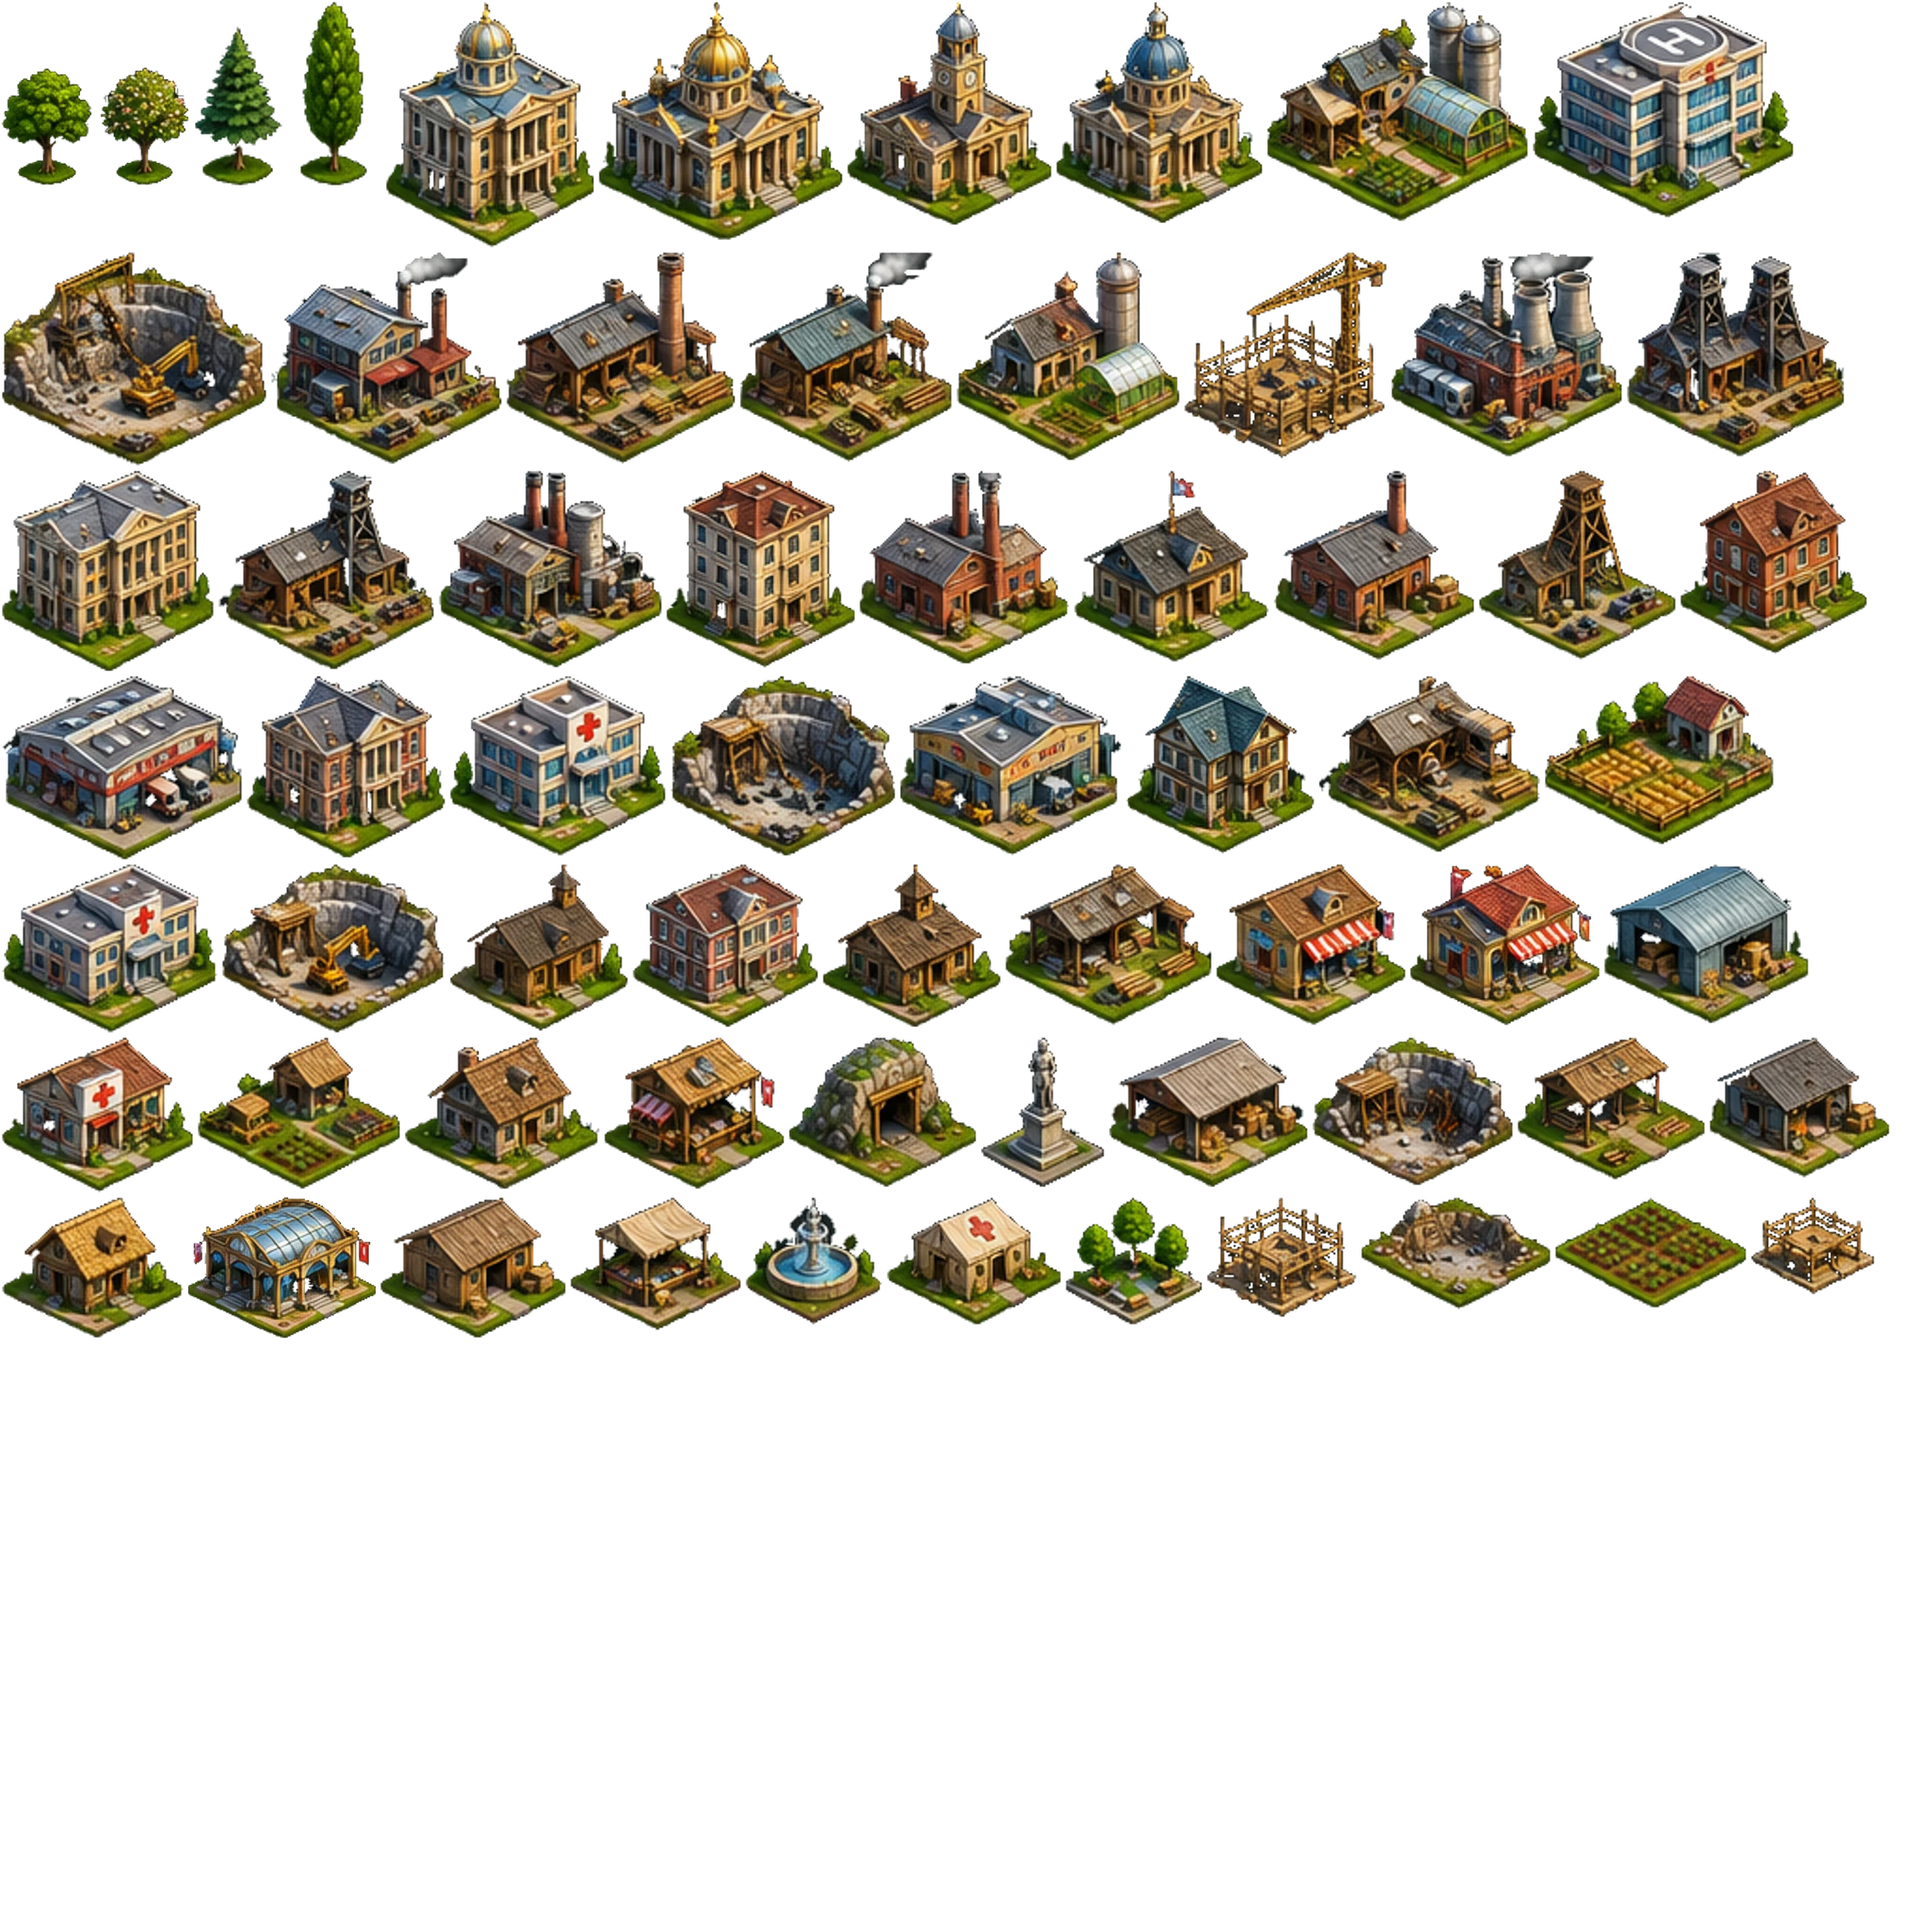
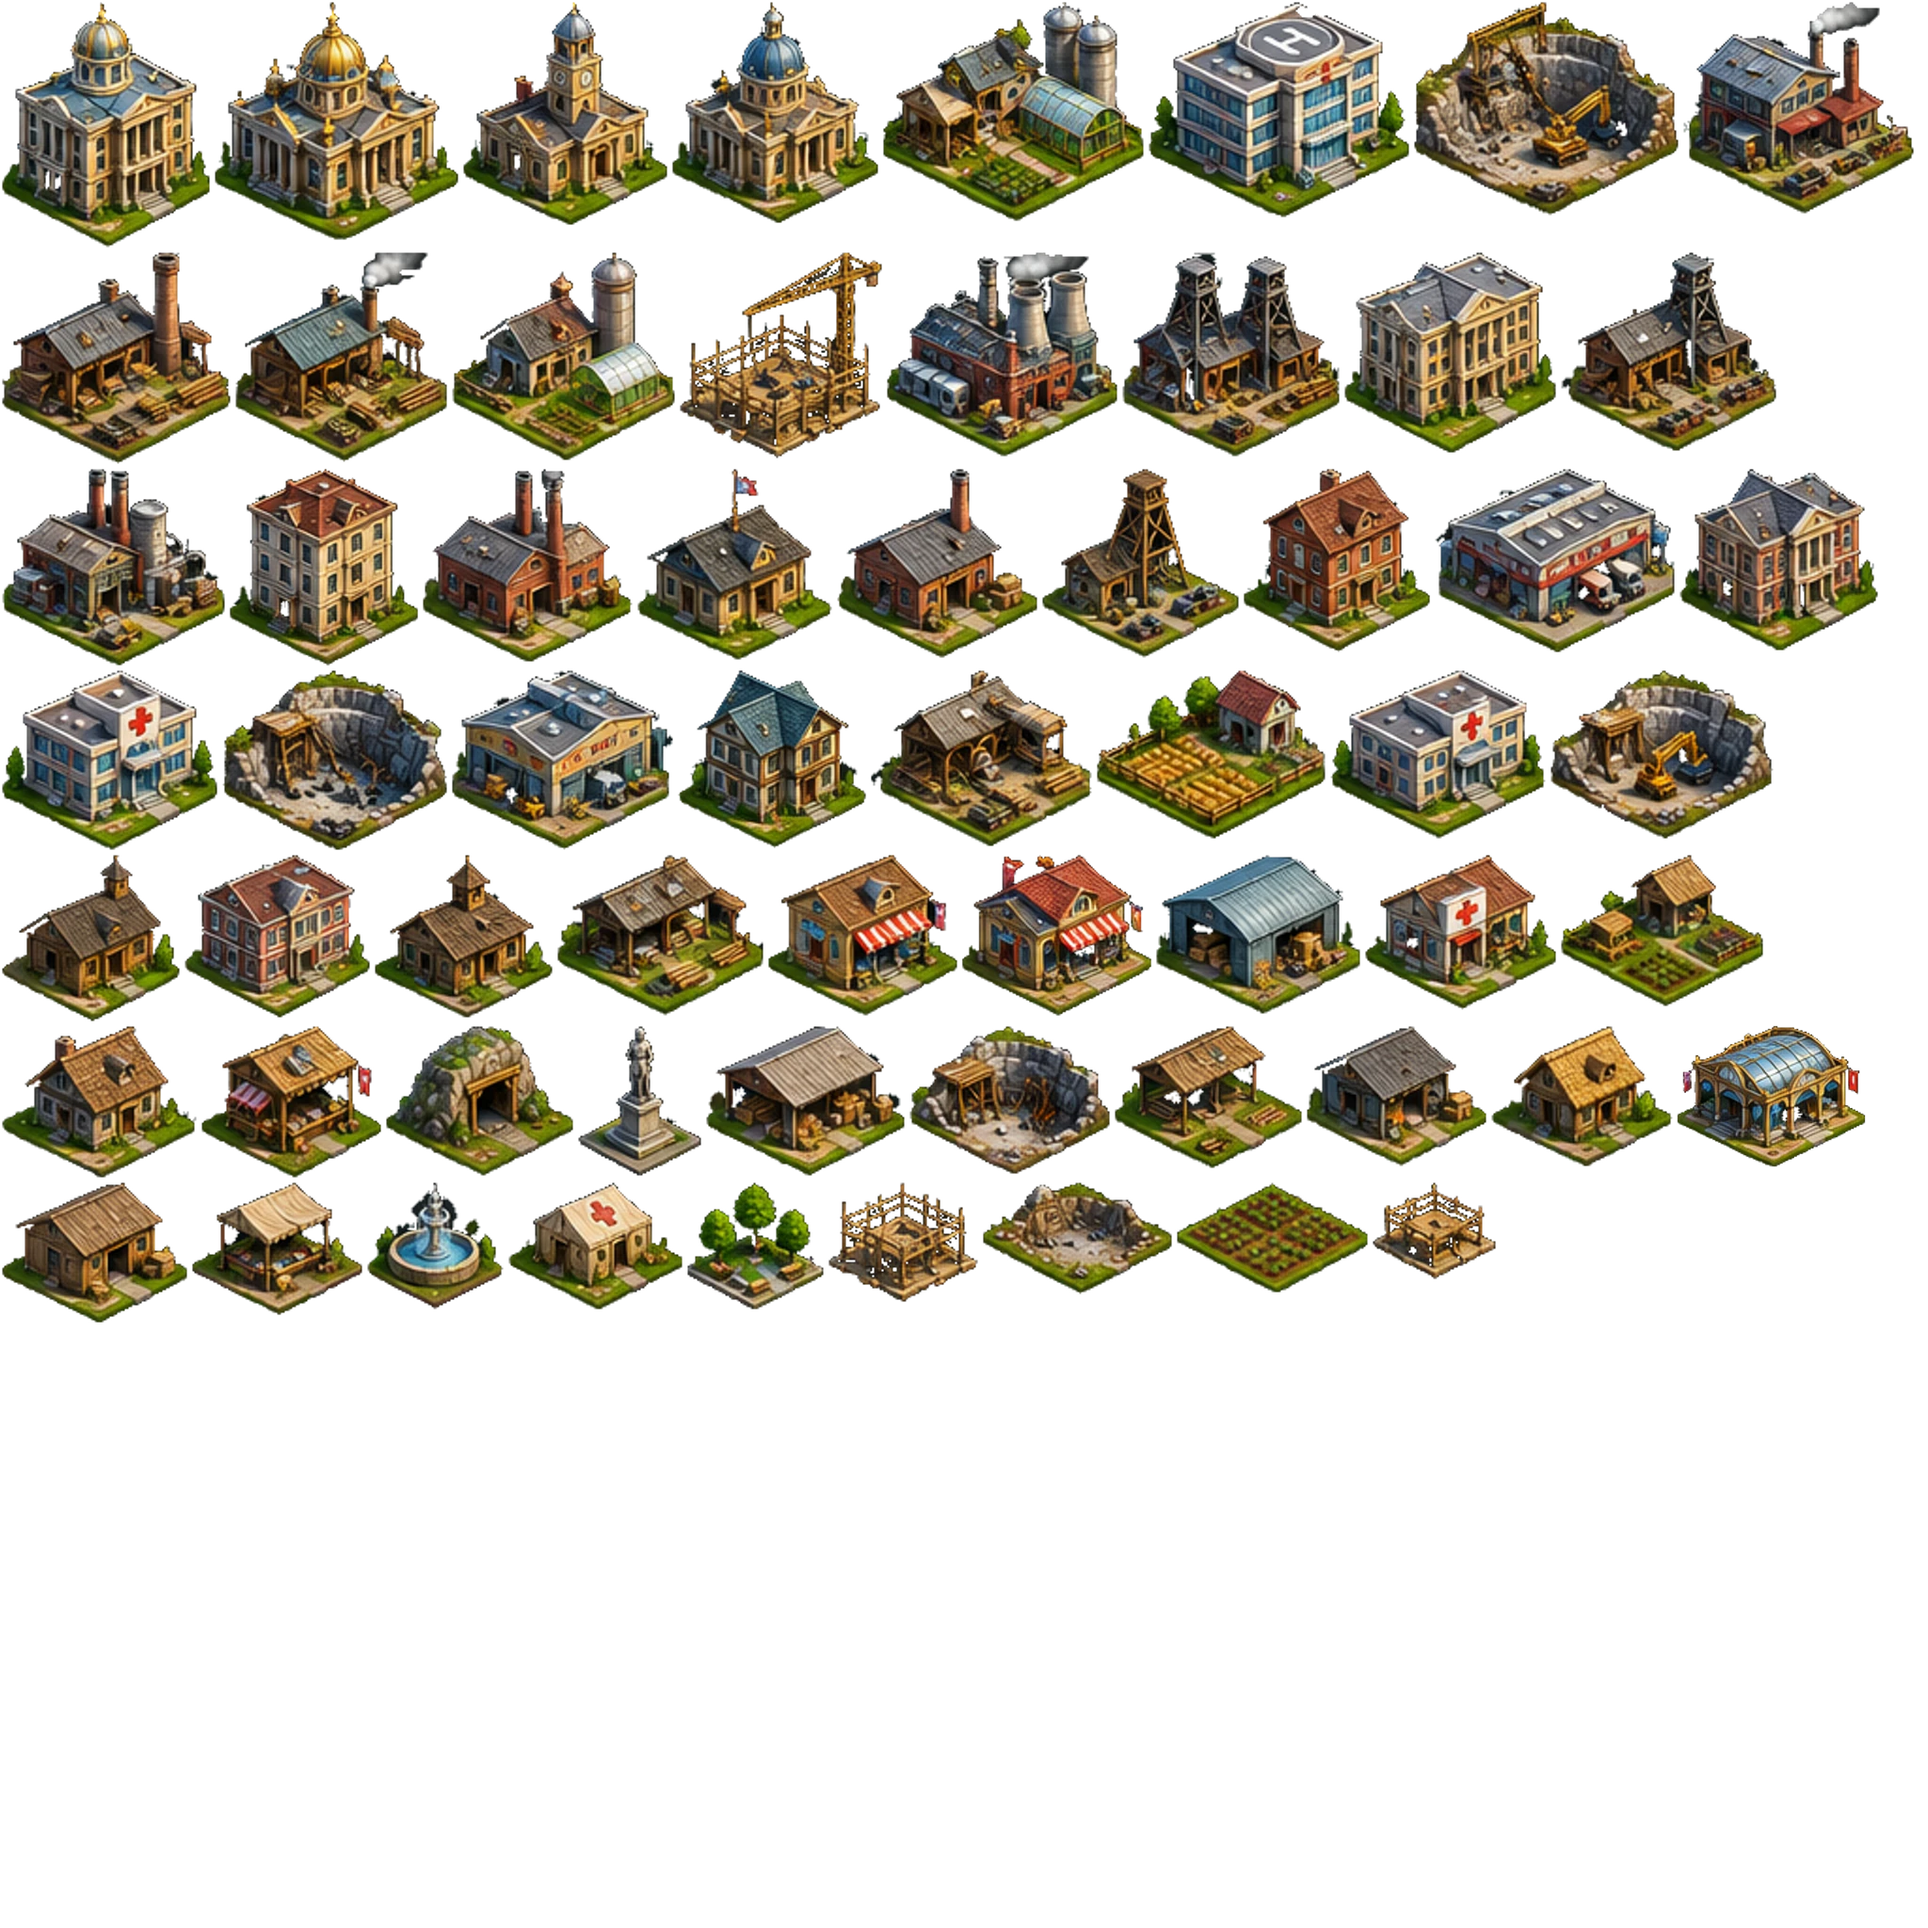
TERRIA: trees are decoration again (the map's own painted trees)
The catalogue trees are no longer cut or used; no forest bonus for the
sawmill and no timber for clearing: trees only disappear under buildings.

Claude-Session: https://claude.ai/code/session_01QcttYN4zYZVkgdTXsx2rZB

diff --git a/terria/src/main.ts b/terria/src/main.ts
@@ -5,8 +5,6 @@ import { createRenderer } from './rendering/createRenderer.ts';
 import { MapApp } from './rendering/MapApp.ts';
 import { createSplash, type SplashMode, type SplashQuality } from './splash/index.ts';
 import { createHud } from './ui/hud.ts';
-import { models } from './app/city/atlas.ts';
-import { useTreeAtlas } from './world/trees/treeAtlas.ts';
 import { createApi } from './app/api.ts';
 import { startWorld } from './world/generation/WorldBackend.ts';
 import { createDetailTextures } from './world/terrain/detailTextures.ts';
@@ -94,21 +92,6 @@ async function boot(): Promise<void> {
     await nextFrame();
 
     earlyResize.disconnect();
-    // hand-drawn trees replace the painted ones ("dw" of a tree = crown width)
-    await models.ready.then(
-      () => {
-        const f = models.frame('tree:0');
-        if (!f) return;
-        useTreeAtlas({
-          canopies: [0, 1, 2, 3].map((v) => models.texture(`tree:${v}`)),
-          canopyPx: f.dw,
-          anchorX: f.ax / f.w,
-          anchorY: f.ay / f.h,
-          destroy: () => {},
-        });
-      },
-      () => {},
-    );
     map = new MapApp(info, world, backend, textures, hud.stage);
     // Nothing of the map is drawn while the splash covers it (see below).
     map.camera.viewport.visible = false;

diff --git a/terria/src/game/config.ts b/terria/src/game/config.ts
@@ -100,8 +100,8 @@ export const BUILDINGS: Record<BuildingType, BuildingDef> = {
     category: 'production', description: 'Поля и амбар. Кормят город: 1 продукт в час на 6 жителей.',
   },
   sawmill: {
-    name: 'Лесопилка', size: 3, cost: { coins: 50 }, th: 1, jobs: 8, out: { wood: 20 }, upkeep: 0.35, maxLevel: 5, forestBonus: 1.6,
-    category: 'production', description: 'Древесина. В лесу работает в 1,6 раза быстрее.',
+    name: 'Лесопилка', size: 3, cost: { coins: 50 }, th: 1, jobs: 8, out: { wood: 20 }, upkeep: 0.35, maxLevel: 5,
+    category: 'production', description: 'Древесина для строительства.',
   },
   quarry: {
     name: 'Карьер', size: 3, cost: { coins: 55 }, th: 1, jobs: 8, out: { stone: 16 }, upkeep: 0.35, maxLevel: 5,

diff --git a/terria/src/game/rules.ts b/terria/src/game/rules.ts
@@ -479,15 +479,6 @@ export function applyAction(c: CityState, a: Action, m: RegionMask, now: number)
         return fail('no_money');
       }
       pay(c, cost);
-      // clearing forest gives some timber
-      const s = d.size;
-      let wooded = 0;
-      for (let y = a.y; y < a.y + s; y++)
-        for (let x = a.x; x < a.x + s; x++) {
-          const i = cellIndex(m, x, y);
-          if (i >= 0 && getBit(m.wood, i)) wooded++;
-        }
-      c.res.wood += wooded * 3;
       const ms = buildHours(a.t, 1) * HOUR;
       c.buildings.push({ id: c.nextId++, t: a.t, x: a.x, y: a.y, lvl: 0, until: now + ms });
       break;

diff --git a/terria/src/world/trees/treeAtlas.ts b/terria/src/world/trees/treeAtlas.ts
@@ -37,17 +37,7 @@ const HUES: Hue[] = [
   { dark: [58, 106, 42], mid: [104, 156, 56], light: [190, 216, 100] },
 ];
 
-let external: TreeAtlas | null = null;
-/**
- * Use externally made tree sprites (e.g. pre-rendered 3D trees) instead of
- * the painted ones. Call before the map is created.
- */
-export function useTreeAtlas(atlas: TreeAtlas | null): void {
-  external = atlas;
-}
-
 export function createTreeAtlas(seed: number): TreeAtlas {
-  if (external) return external;
   const canvas = document.createElement('canvas');
   canvas.width = CELL * TREE_VARIANTS;
   canvas.height = CELL;

diff --git a/terria/docs/GDD.md b/terria/docs/GDD.md
@@ -24,8 +24,8 @@
   **стартовая зона: 1 % участка** (~9 × 9 клеток, ~150 × 150 м) с ратушей
   в углу. Остальная часть участка — твоя, но закрыта: её покупаешь по клетке.
 * Чужую землю купить нельзя: на твоём участке не может строить никто, кроме тебя.
-* Вода, пляжи и берега рек не застраиваются. Лес застраивается: при
-  вырубке выдаётся 3 древесины за лесную клетку.
+* Вода, пляжи и берега рек не застраиваются. Деревья — только украшение
+  карты: под зданием они исчезают, на экономику не влияют.
 
 ### 1.1 Расширение
 
@@ -78,7 +78,7 @@
 | Ратуша | 4×4 | — | старт | +20 мест, +10 🪙/ч за уровень, строители |
 | Жилой квартал | 4×4 | 35 🪙, 25 дерева, 10 камня | Р1 | 30 жителей |
 | Ферма | 6×6 | 40 🪙, 5 дерева | Р1 | 18 продуктов/ч, 8 рабочих |
-| Лесопилка | 4×4 | 50 🪙 | Р1 | 20 дерева/ч (×1,6 в лесу), 8 рабочих |
+| Лесопилка | 3×3 | 50 🪙 | Р1 | 20 дерева/ч, 8 рабочих |
 | Карьер | 4×4 | 55 🪙 | Р1 | 16 камня/ч, 8 рабочих |
 | Сквер | 2×2 | 25 🪙 | Р1 | радость +4 |
 | Рынок квартала | 3×3 | 90 🪙, 30 дерева, 25 камня | Р2 | до 28 🪙/ч от покупок жителей |
